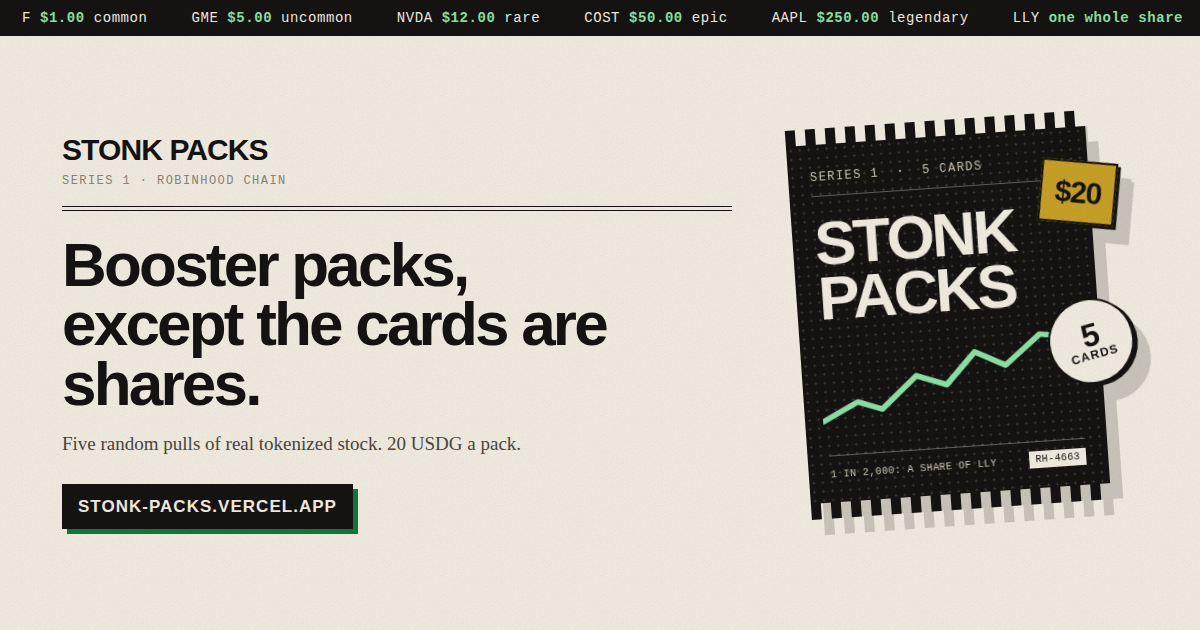
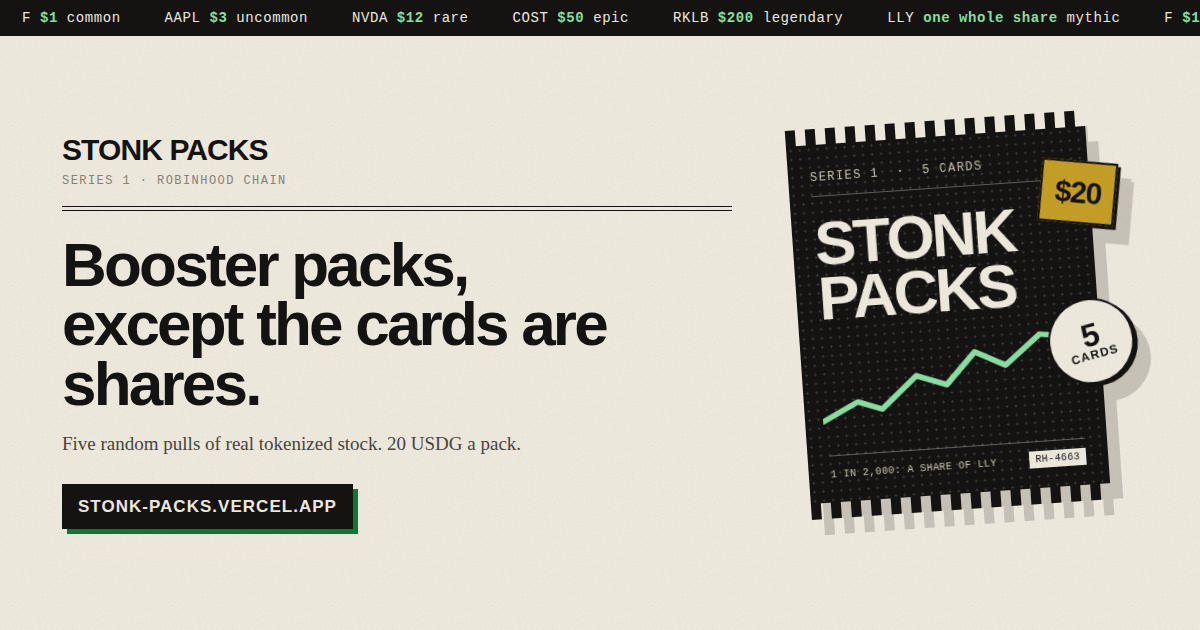
Fix the link-preview tape to the real table values
Claude-Session: https://claude.ai/code/session_01PnjSb6spYuiyGsZF7fTWuK

Changed region(s): [[0.0617, 0.0, 1.0, 0.0603]]

diff --git a/site/og.html b/site/og.html
@@ -68,9 +68,7 @@
 </style>
 </head>
 <body>
-<div class="tape">
-  <span>F <b>$1.00</b> common</span><span>GME <b>$5.00</b> uncommon</span><span>NVDA <b>$12.00</b> rare</span><span>COST <b>$50.00</b> epic</span><span>AAPL <b>$250.00</b> legendary</span><span>LLY <b>one whole share</b></span><span>ONE PACK IN 2,000 <b>HOLDS A SHARE OF LLY</b></span>
-</div>
+<div class="tape"><span>F <b>$1</b> common</span><span>AAPL <b>$3</b> uncommon</span><span>NVDA <b>$12</b> rare</span><span>COST <b>$50</b> epic</span><span>RKLB <b>$200</b> legendary</span><span>LLY <b>one whole share</b> mythic</span><span>F <b>$1</b> common</span><span>AAPL <b>$3</b> uncommon</span><span>NVDA <b>$12</b> rare</span><span>COST <b>$50</b> epic</span><span>RKLB <b>$200</b> legendary</span><span>LLY <b>one whole share</b> mythic</span></div>
 
 <div class="sheet">
   <div class="copy">
